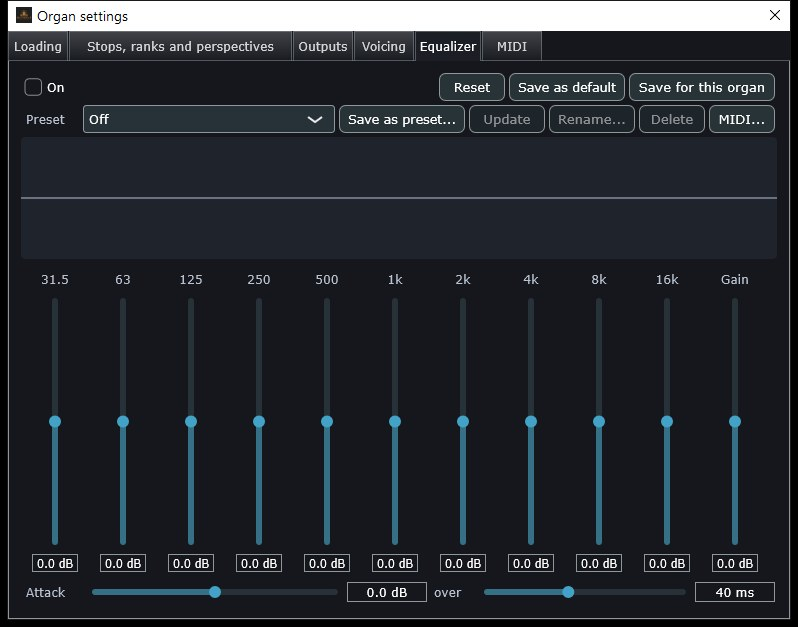
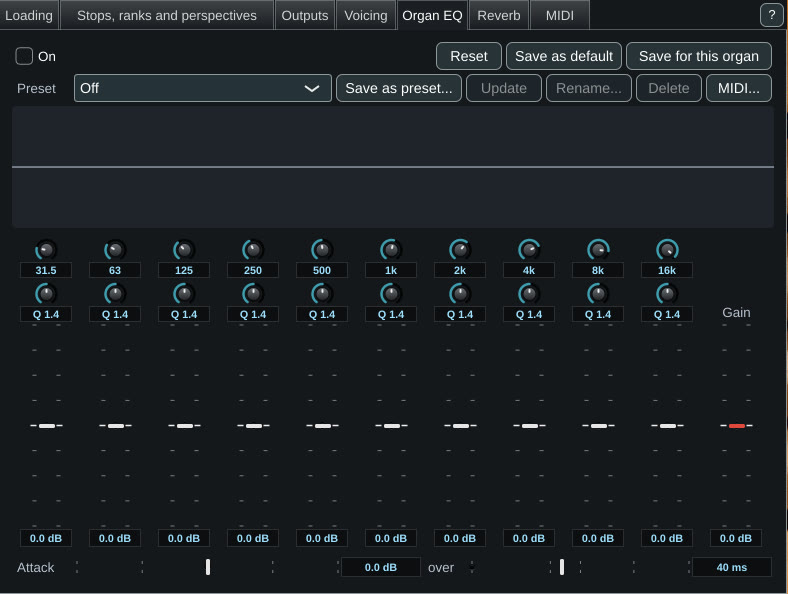
Site: Outputs and Organ EQ screenshots of 0.10.0

Changed region(s): [[0.0, 0.0, 1.0, 1.0], [0.1218, 0.3939, 0.1827, 0.9091], [0.8832, 0.4242, 0.9442, 0.4545]]

diff --git a/site/index.html b/site/index.html
@@ -497,10 +497,10 @@
     </div>
     <div class="stack">
       <figure class="frame" style="margin:0">
-        <img src="screenshots/shot-outputs.jpg" alt="Organ settings, Outputs tab: a fader and a MIDI button for each output, division and rank">
+        <img src="screenshots/shot-outputs.jpg" alt="Organ settings, Outputs tab: the outputs and their buttons, and a mixer strip for each division and output">
       </figure>
       <figure class="frame" style="margin:0">
-        <img src="screenshots/shot-equalizer.jpg" alt="Organ settings, Organ EQ tab: ten bands, gain and attack">
+        <img src="screenshots/shot-equalizer.jpg" alt="Organ settings, Organ EQ tab: ten bands with frequency and width, gain and attack">
       </figure>
     </div>
   </div>
